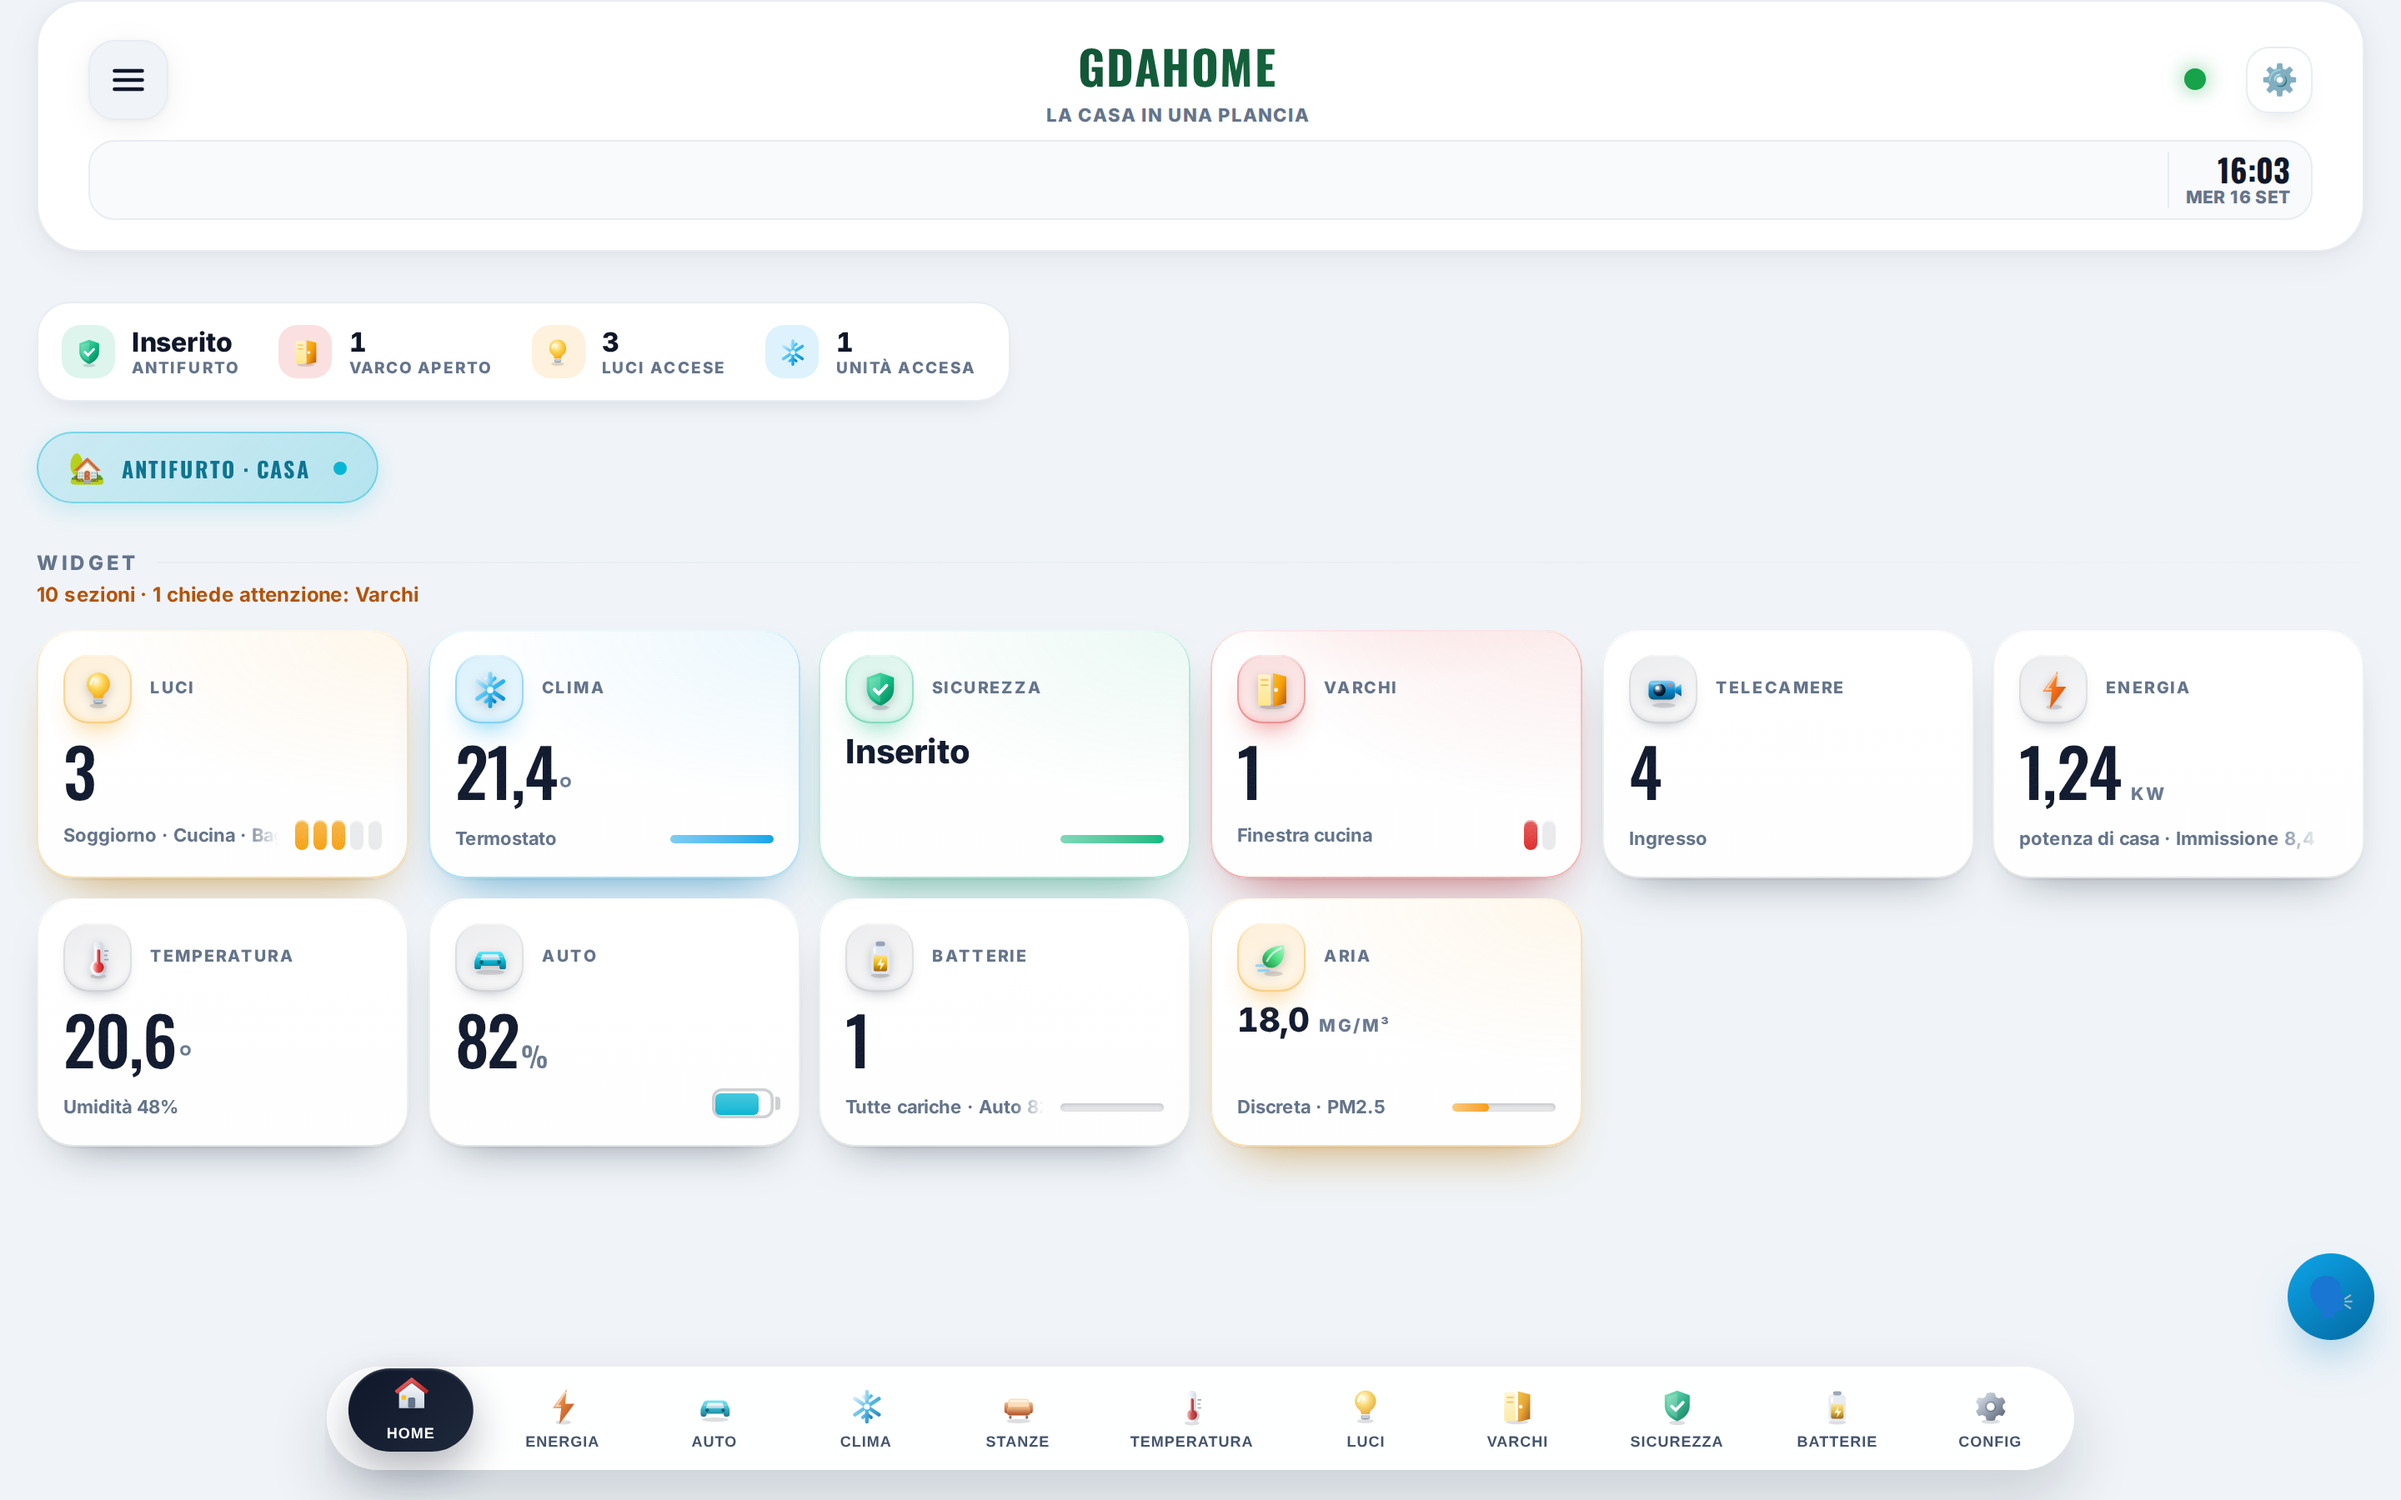
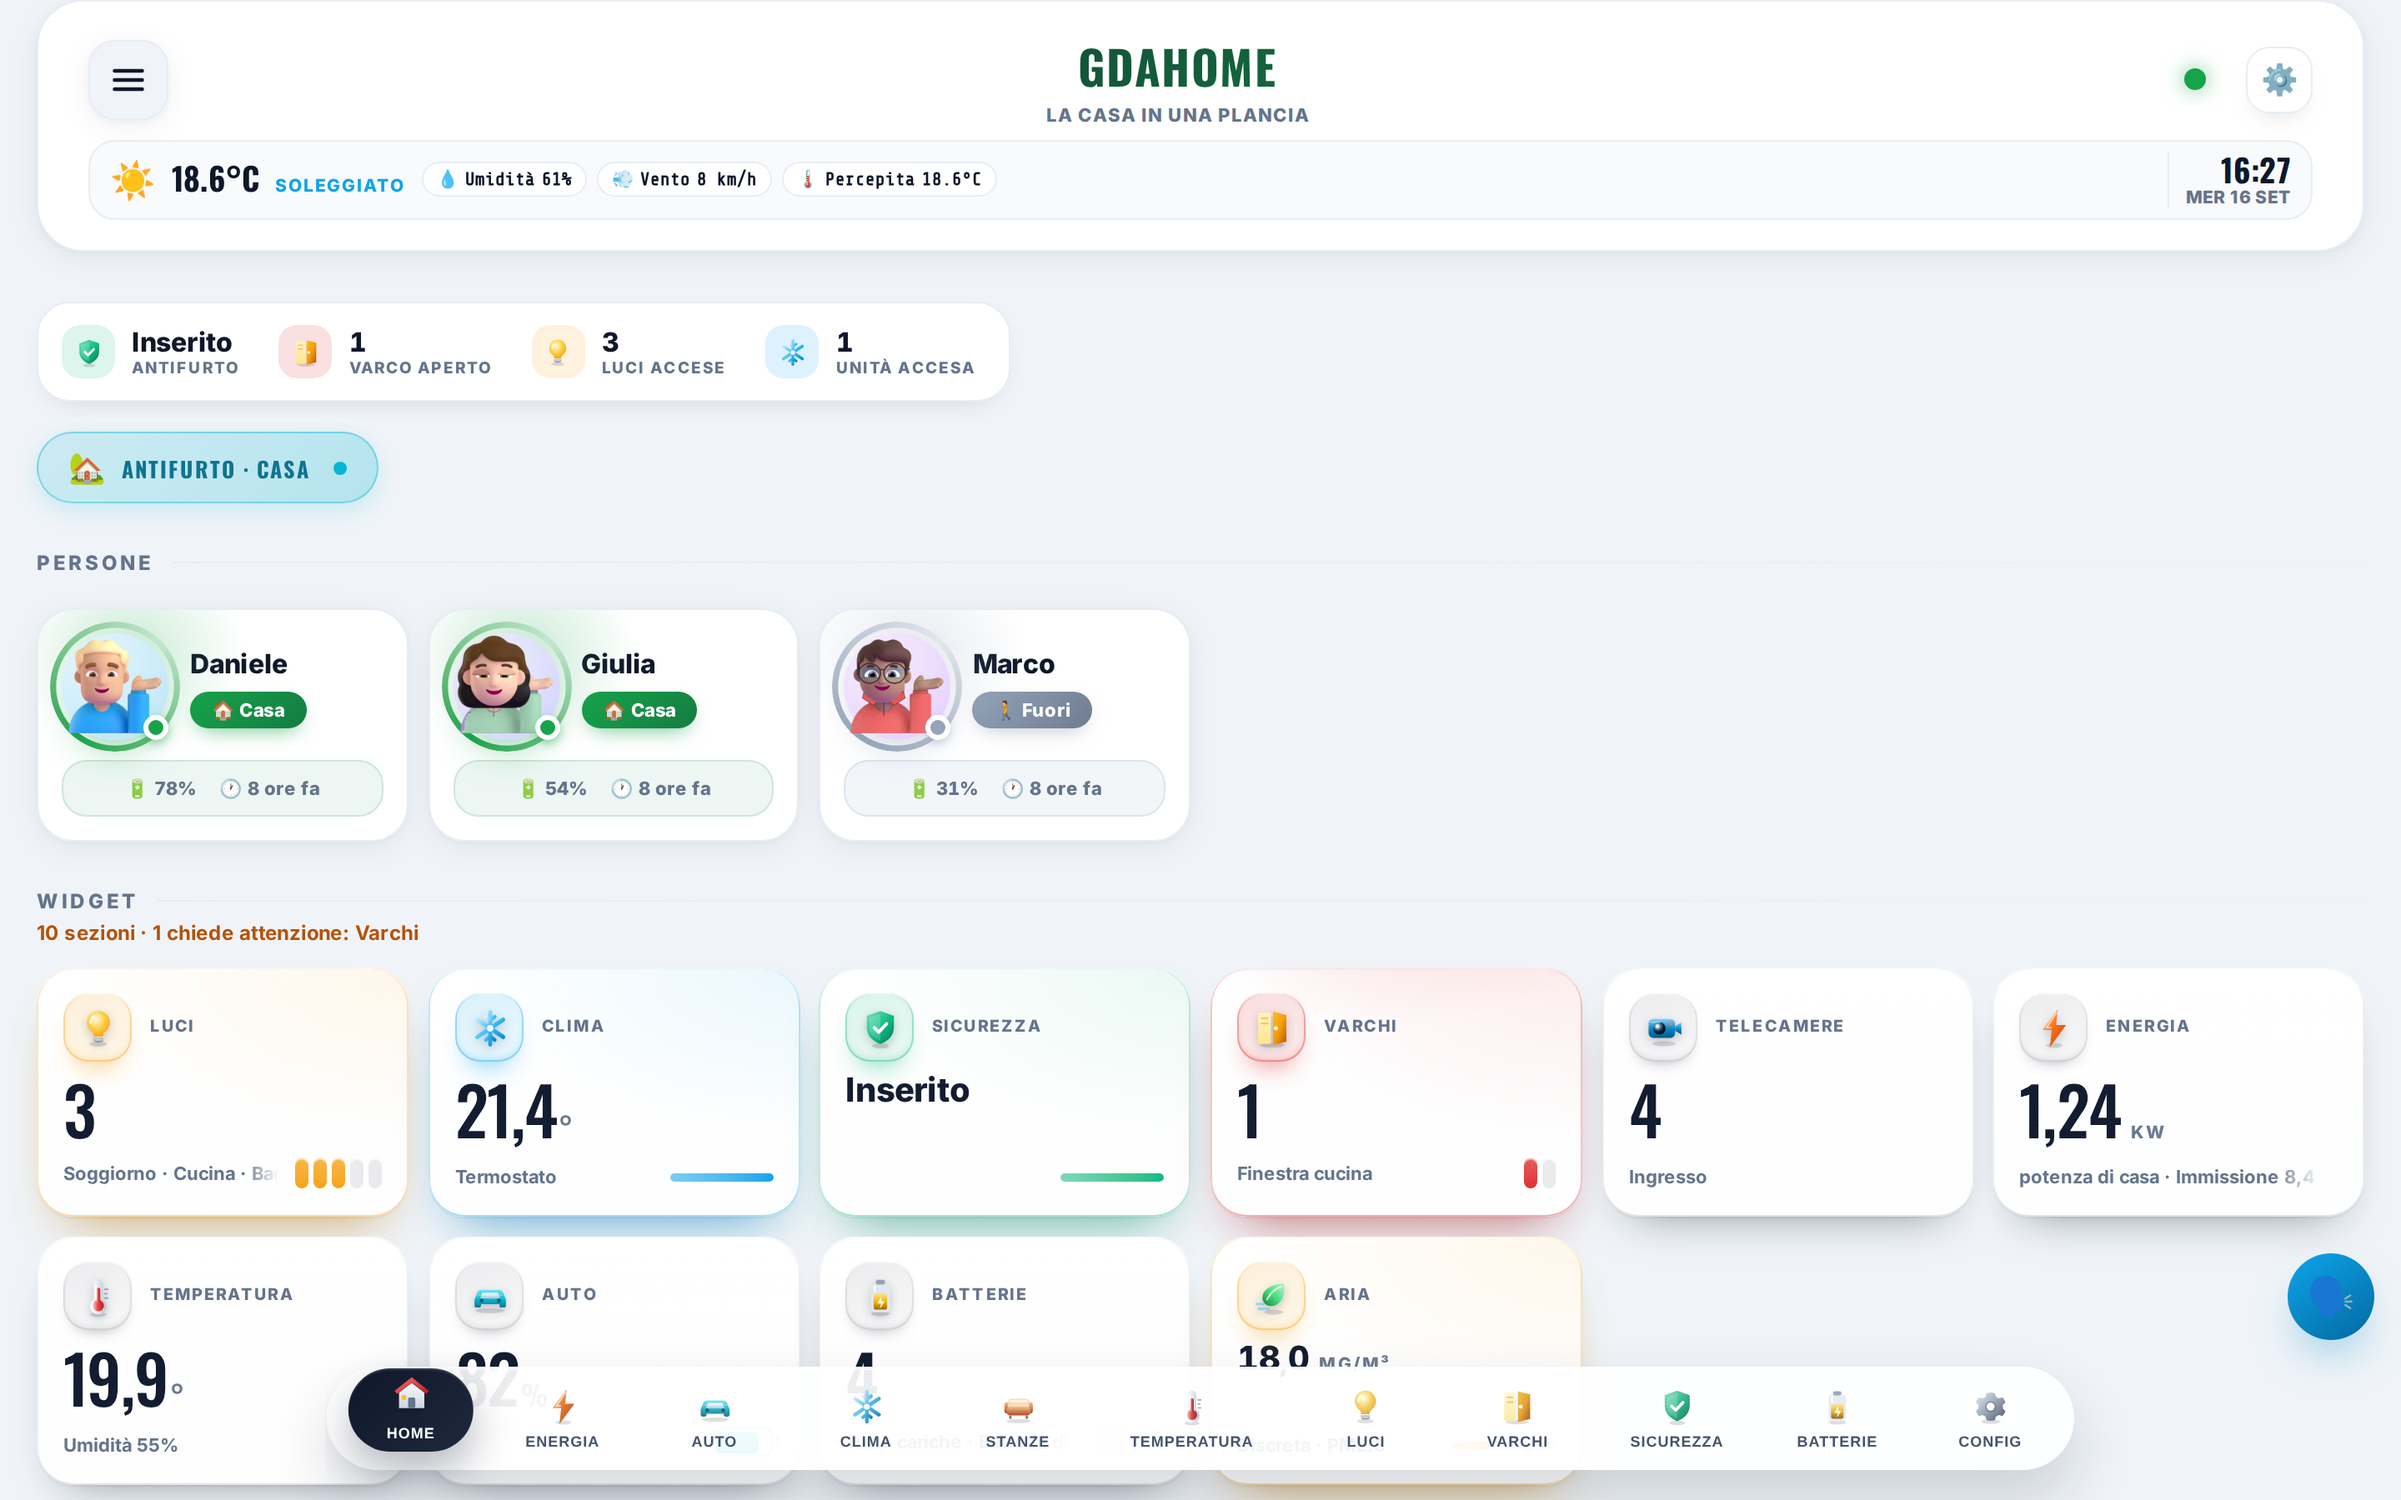
Nella plancia delle copertine mancavano il meteo e le facce
Due buchi, e due ragioni diverse.

**Gli avatar erano cerchi vuoti.** Il compositore dei ritratti chiede le
figure **due cartelle piu' su** della pagina, e la plancia era servita da
una profondita' che non e' la sua: le chiedeva a `/ponte/avatars/`, che non
esiste. Adesso si monta dove la monta il ponte —
`/dashboardmodern_static/`, con i file sotto un'impronta e `avatars/` e
`brands/` fuori (`ponte/src/plancia.js`) — e le figure arrivano dove il
compositore le cerca. Le facce le disegna lui, quello vero: undici scelte
per persona, come in `docs/RITRATTO.md`.

**Il meteo era una striscia vuota**, ed e' meta' dell'intestazione. I suoi
posti — `dm.home_meteo` e i tre numeri accanto — vogliono un'entita'
`weather.` e i sensori di fuori, e il 🪄 su quelli non si sbilancia: nella
plancia vera li collega chi la configura, in un minuto. Qui si scrivono
nella busta della casa finta, che e' lo stesso posto, e la casa finta ha
adesso il meteo con le sue previsioni e i sensori di fuori.

Un difetto trovato per strada: **si parte da quello che la plancia ha
adesso, non dalla busta.** I posti che il 🪄 ha appena riempito stanno nella
sua memoria, non ancora nella busta; partendo dalla busta ci si riscriveva
sopra, e nella fotografia sparivano la sicurezza e l'antifurto — due
tessere su dieci, sparite per aver collegato il meteo.

Nelle tre fotografie adesso c'e': il meteo accanto al nome della casa
(18,6°, soleggiato, umidita', vento, percepita), le tre persone con la
[…]

diff --git a/strumenti/video/casa-finta.js b/strumenti/video/casa-finta.js
@@ -31,14 +31,76 @@
 
   const LE_COSE = [
     stato("sun.sun", "above_horizon", { friendly_name: "Sole" }),
+    /* Il meteo con le sue previsioni **negli attributi**: la plancia le legge
+       da li'. Senza, in cima resta la striscia vuota che si era vista. */
     stato("weather.casa", "sunny", {
       friendly_name: "Casa",
       temperature: 21.4,
+      apparent_temperature: 21,
       temperature_unit: "°C",
       humidity: 48,
       pressure: 1014,
+      pressure_unit: "hPa",
       wind_speed: 6,
-      forecast: [],
+      wind_speed_unit: "km/h",
+      wind_bearing: 210,
+      visibility: 20,
+      visibility_unit: "km",
+      precipitation_unit: "mm",
+      attribution: "Casa finta",
+      supported_features: 3,
+      forecast: [
+        {
+          datetime: "2026-09-16T12:00:00+02:00",
+          condition: "sunny",
+          temperature: 24,
+          templow: 15,
+          precipitation: 0,
+          precipitation_probability: 0,
+          wind_speed: 7,
+          humidity: 45,
+        },
+        {
+          datetime: "2026-09-17T12:00:00+02:00",
+          condition: "partlycloudy",
+          temperature: 23,
+          templow: 14,
+          precipitation: 0,
+          precipitation_probability: 10,
+          wind_speed: 9,
+          humidity: 52,
+        },
+        {
+          datetime: "2026-09-18T12:00:00+02:00",
+          condition: "rainy",
+          temperature: 19,
+          templow: 13,
+          precipitation: 6.2,
+          precipitation_probability: 80,
+          wind_speed: 14,
+          humidity: 76,
+        },
+        {
+          datetime: "2026-09-19T12:00:00+02:00",
+          condition: "cloudy",
+          temperature: 20,
+          templow: 12,
+          precipitation: 0.4,
+          precipitation_probability: 30,
+          wind_speed: 11,
+          humidity: 63,
+        },
+        {
+          datetime: "2026-09-20T12:00:00+02:00",
+          condition: "sunny",
+          temperature: 22,
+          templow: 12,
+          precipitation: 0,
+          precipitation_probability: 0,
+          wind_speed: 6,
+          humidity: 48,
+        },
+      ],
     }),
     stato("light.soggiorno", "on", {
       friendly_name: "Soggiorno",
@@ -124,6 +186,22 @@
     }),
     stato("person.daniele", "home", { friendly_name: "Daniele" }),
     stato("person.giulia", "home", { friendly_name: "Giulia" }),
+    stato("person.marco", "not_home", { friendly_name: "Marco" }),
+    stato("sensor.batteria_daniele", "78", {
+      friendly_name: "Batteria di Daniele",
+      unit_of_measurement: "%",
+      device_class: "battery",
+    }),
+    stato("sensor.batteria_giulia", "54", {
+      friendly_name: "Batteria di Giulia",
+      unit_of_measurement: "%",
+      device_class: "battery",
+    }),
+    stato("sensor.batteria_marco", "31", {
+      friendly_name: "Batteria di Marco",
+      unit_of_measurement: "%",
+      device_class: "battery",
+    }),
     stato("alarm_control_panel.casa", "armed_home", {
       friendly_name: "Antifurto",
       supported_features: 15,
@@ -134,6 +212,24 @@
       friendly_name: "Auto",
       unit_of_measurement: "%",
       device_class: "battery",
+    }),
+    /* Il meteo di fuori: i numeri che la plancia mette accanto al nome della
+       casa, ognuno nel suo posto (`dm.home_meteo_*`). */
+    stato("sensor.temperatura_esterna", "18.6", {
+      friendly_name: "Temperatura esterna",
+      unit_of_measurement: "°C",
+      device_class: "temperature",
+      state_class: "measurement",
+    }),
+    stato("sensor.umidita_esterna", "61", {
+      friendly_name: "Umidità esterna",
+      unit_of_measurement: "%",
+      device_class: "humidity",
+    }),
+    stato("sensor.vento", "8", {
+      friendly_name: "Vento",
+      unit_of_measurement: "km/h",
+      device_class: "wind_speed",
     }),
     stato("sensor.qualita_aria", "18", {
       friendly_name: "Qualità dell'aria",
@@ -244,7 +340,9 @@
      e' cosi' che si scopre cosa chiede davvero la plancia. */
   const CHIESTO = (window.__CASA_FINTA_CHIESTO__ = []);
 
-  function risposta(detto) {
+  /* `manda` arriva da fuori perche' un paio di comandi non si esauriscono in
+     una risposta: le previsioni del meteo arrivano come **evento**, dopo. */
+  function risposta(detto, manda) {
     const tipo = detto.type;
     switch (tipo) {
       case "get_states":
@@ -309,6 +407,20 @@
         return { timers: [] };
       case "dashboardmodern/tickets/list":
         return { tickets: [] };
+      /* Le previsioni, come le chiede Home Assistant di oggi: chi le chiede
+         cosi' le riceve una volta e basta, e alla plancia basta. */
+      case "weather/subscribe_forecast": {
+        const meteo = LE_COSE.find((cosa) => cosa.entity_id === detto.entity_id);
+        const previsioni = meteo?.attributes?.forecast || [];
+        setTimeout(() => {
+          manda({
+            id: detto.id,
+            type: "event",
+            event: { type: detto.forecast_type || "daily", forecast: previsioni },
+          });
+        }, 0);
+        return null;
+      }
       case "dashboardmodern/integrations/catalog":
         return { integrazioni: [] };
       case "dashboardmodern/www/list":
@@ -362,7 +474,7 @@
         manda({ id: detto.id, type: "pong" });
         return;
       }
-      const roba = risposta(detto);
+      const roba = risposta(detto, manda);
       manda({ id: detto.id, type: "result", success: true, result: roba });
     };
 

diff --git a/strumenti/video/README.md b/strumenti/video/README.md
@@ -159,6 +159,30 @@ noi per far bella figura nella fotografia. L'unica cosa messa a mano è il nome
 in cima (`cd_branding`): di suo DashboardModern si chiama «Smart Home», e in
 una copertina di gdahome il nome di un altro è la prima cosa che si legge.
 
+**Due cose il 🪄 non le trova**, e si mettono a mano perché senza in copertina
+si vede un buco:
+
+- **il meteo**. I suoi posti — `dm.home_meteo` e i tre numeri accanto —
+  vogliono un'entità `weather.` e i sensori di fuori, e il rilevatore su quelli
+  non si sbilancia. Nella plancia vera li collega chi la configura, in un
+  minuto; qui si scrivono nella busta della casa finta, che è lo stesso posto.
+  Senza, accanto al nome della casa resta una striscia vuota — ed è metà
+  dell'intestazione.
+- **i ritratti delle persone**. Un ritratto non si rileva: sono undici scelte
+  (`docs/RITRATTO.md`) che fa chi configura, una persona per volta. Qui ce ne
+  sono tre in `cd_people`; a disegnarle è il compositore della plancia, quello
+  vero.
+
+E si parte da quello che la plancia ha **adesso**, non dalla busta: i posti che
+il 🪄 ha appena riempito stanno lì. Partendo dalla busta si riscriveva sopra al
+suo lavoro, e nella fotografia sparivano la sicurezza e l'antifurto.
+
+**La plancia si monta dove la monta il ponte** — `/dashboardmodern_static/`, con
+i file sotto un'impronta e `avatars/` e `brands/` fuori (`ponte/src/plancia.js`).
+Non è un dettaglio di gusto: il compositore chiede le figure due cartelle più su
+della pagina, e servita da un'altra profondità le chiedeva a un indirizzo che non
+esiste — gli avatar uscivano come cerchi vuoti.
+
 Prima di scattare si ferma quello che si muove: la striscia in cima alla
 plancia scorre da sola, e una striscia ferma a metà corsa in una fotografia
 sembra un pezzo tagliato via.
